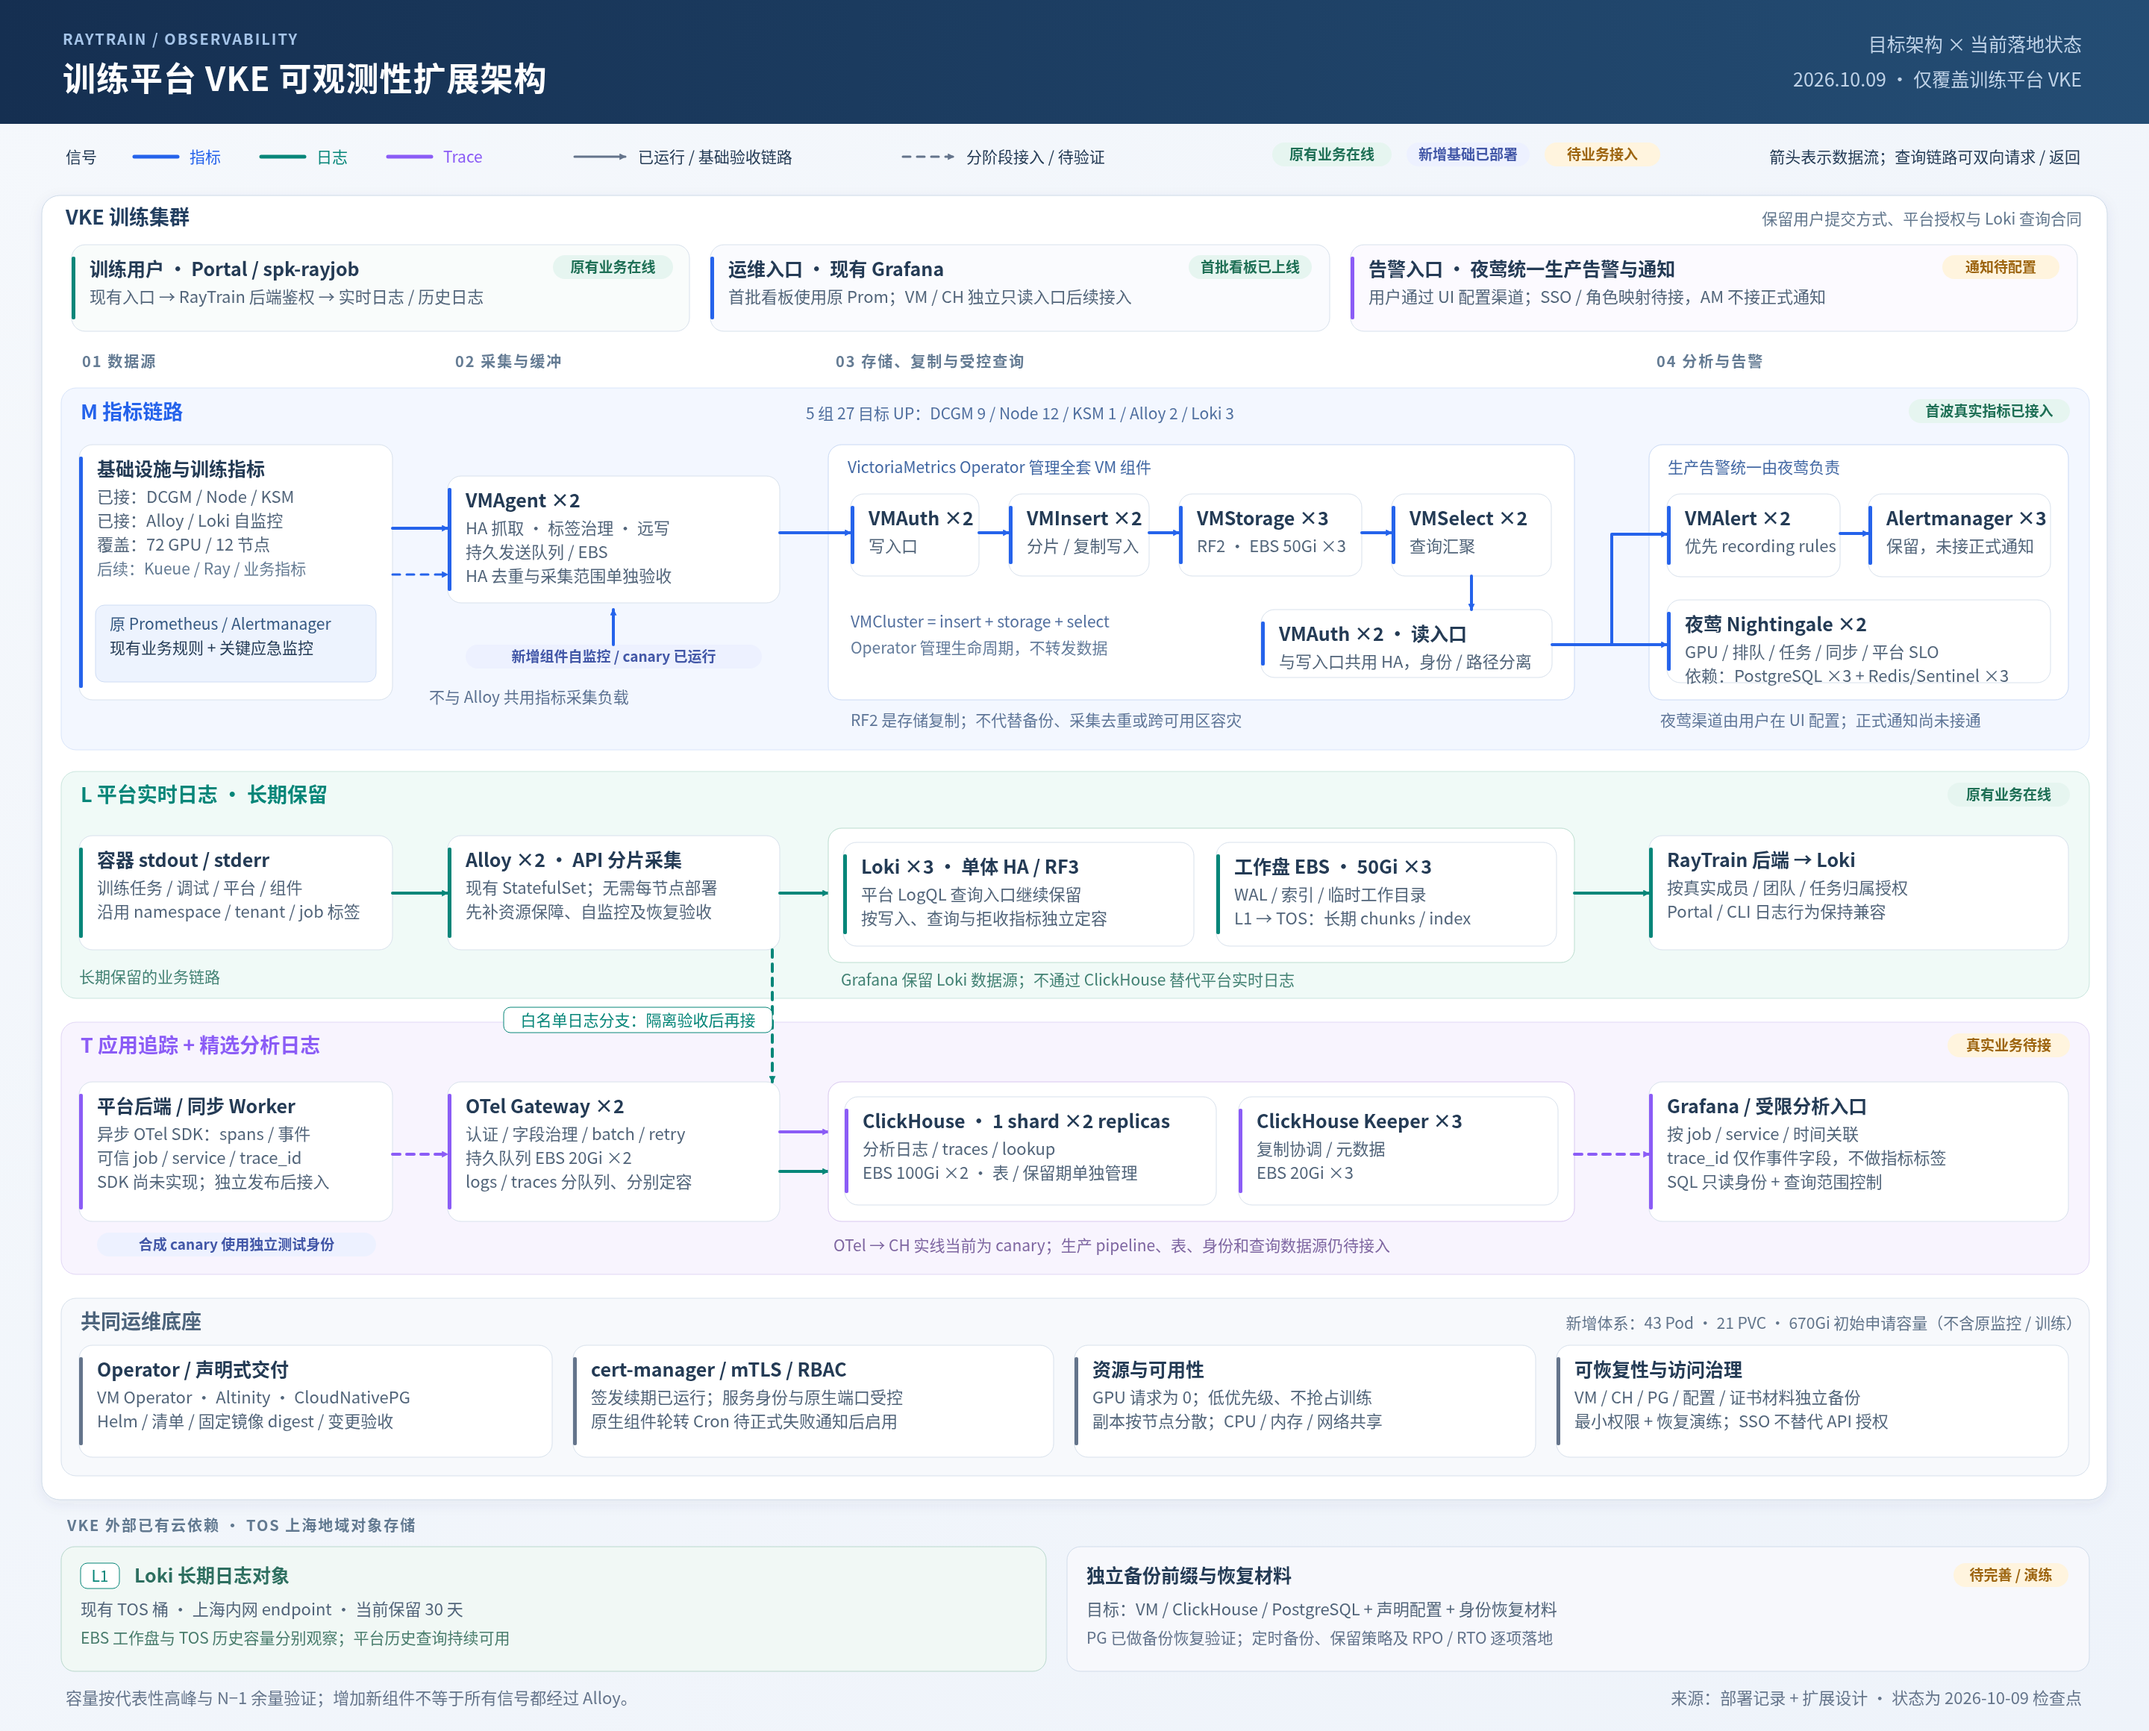
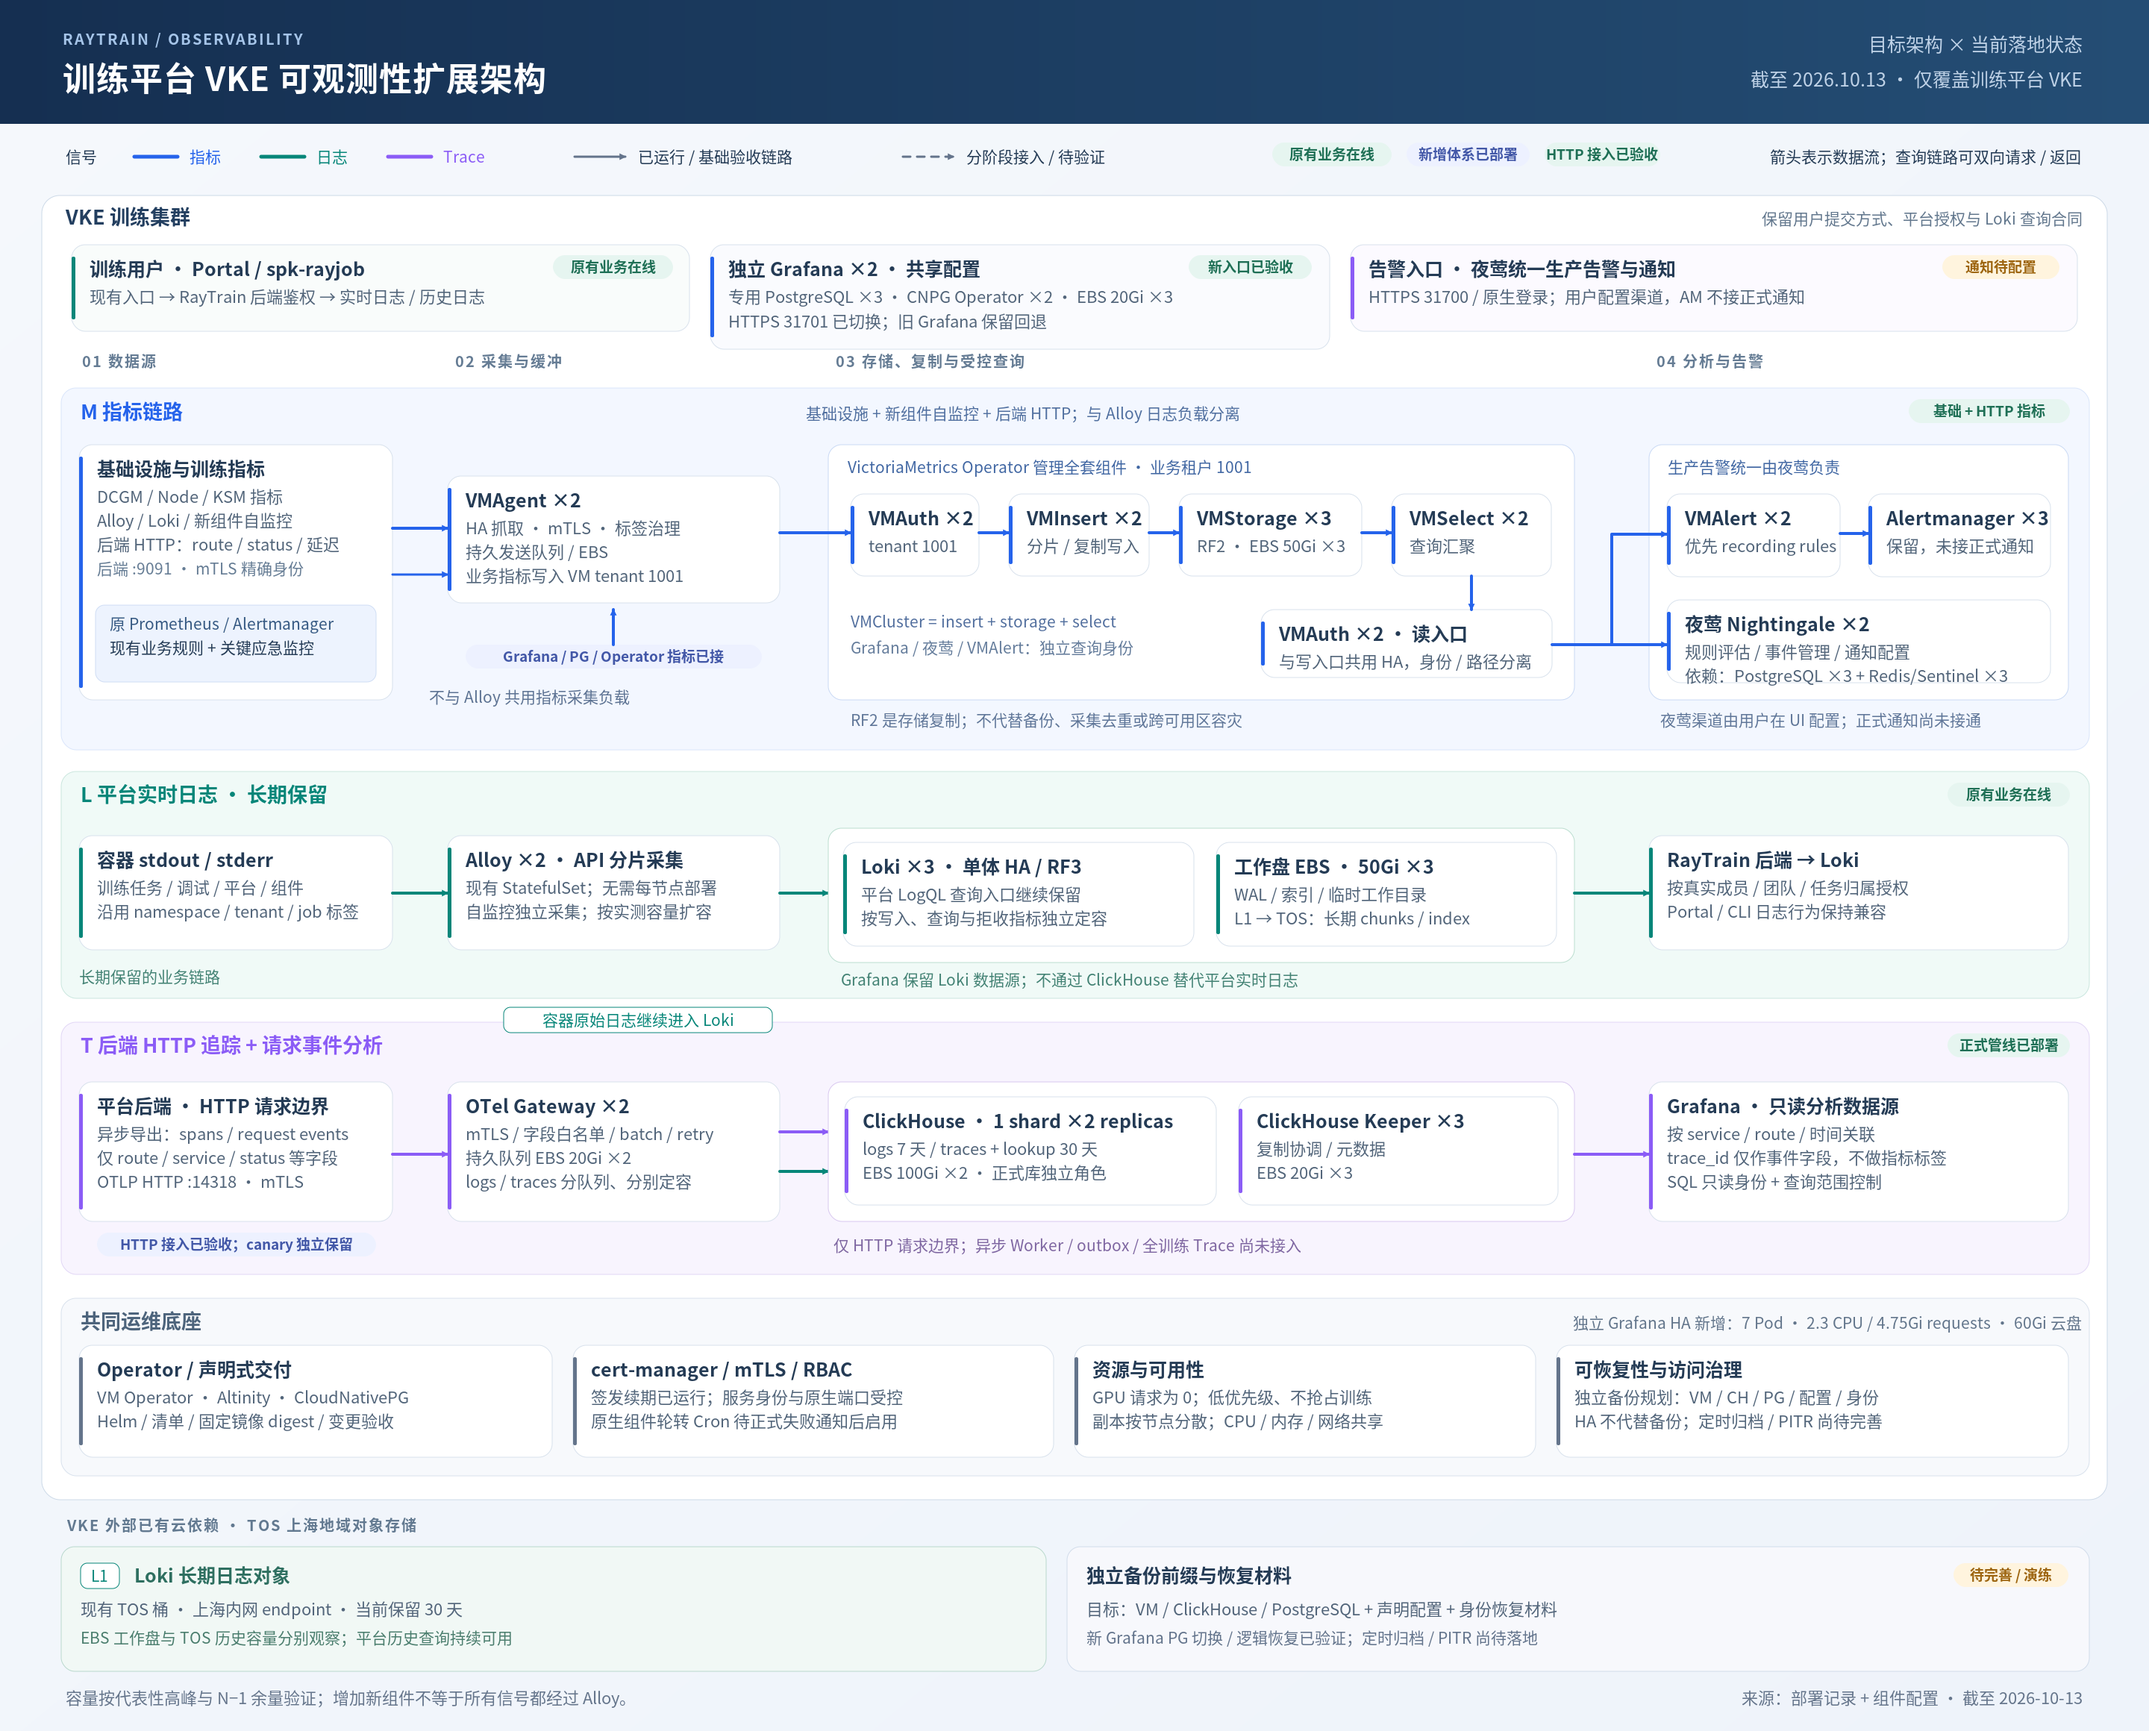
docs: refresh deployed observability architecture [skip ci]

diff --git a/docs/architecture/raytrain-observability-vke-20261009.html b/docs/architecture/raytrain-observability-vke-20261009.html
@@ -3,7 +3,7 @@
 <head>
 <meta charset="utf-8">
 <meta name="viewport" content="width=device-width,initial-scale=1">
-<title>RayTrain · VKE 可观测性架构</title>
+<title>RayTrain · VKE 可观测性架构 · 截至 2026-10-13</title>
 <style>
 :root{color-scheme:light;--ink:#243b55;--muted:#60748b;--line:#d9e3ee;--blue:#2563eb}
 *{box-sizing:border-box}
@@ -36,7 +36,7 @@ footer a{color:#345d8f}
 </head>
 <body>
 <header>
-  <div><h1>RayTrain · VKE 可观测性扩展架构</h1><p>首波真实指标与看板已接入；保留平台日志，逐步扩展分析与追踪 · 2026-10-09</p></div>
+  <div><h1>RayTrain · VKE 可观测性扩展架构</h1><p>独立 Grafana HA、正式 OTel / ClickHouse 管线已部署；HTTP 业务接入与新 Grafana 入口均已验收 · 截至 2026-10-13</p></div>
   <a href="../../ops/observability/next/DEPLOYMENT_RUNBOOK.md">部署与验收记录 ↗</a>
 </header>
 <nav class="toolbar" aria-label="架构图查看工具">
@@ -50,15 +50,15 @@ footer a{color:#345d8f}
 </nav>
 <main>
   <div class="viewer" id="viewer" tabindex="0" aria-label="可滚动缩放的架构图">
-    <div class="canvas" id="canvas"><img src="raytrain-observability-vke-20261009.svg" width="2880" height="2320" alt="RayTrain 可观测性架构：DCGM、Node、KSM、Alloy、Loki 五组二十七个指标目标已由 VMAgent 接入 VMCluster；现有 Grafana 首批看板使用原 Prometheus。绿色日志保留 Alloy 到 Loki 和 TOS。Kueue 与 Ray 更细业务指标、应用 SDK、正式 ClickHouse 管线和通知仍待接入。"></div>
+    <div class="canvas" id="canvas"><img src="raytrain-observability-vke-20261009.svg" width="2880" height="2320" alt="RayTrain VKE 可观测性：独立 Grafana 两副本共享专用 PostgreSQL 三副本，CNPG Operator 两副本管理。HTTP 指标通过 mTLS 9091、VMAgent 写入 VMCluster 1001；HTTP spans 和请求事件经 OTLP 14318、OTel 持久队列进入 ClickHouse 一分片两副本和三 Keeper。原 Alloy、Loki 日志链与旧 Grafana 回退保留。HTTP 业务接入与 Grafana 临时 NodePort 已验收；异步训练链路和夜莺正式通知尚未接入。"></div>
   </div>
   <section class="notes" aria-label="讲解要点">
-    <article class="note"><h2><i class="legend"></i>指标：首波真实目标已接入</h2><p>DCGM / Node / KSM / Alloy / Loki 共 5 组 27 目标 UP，读回 72 GPU、12 节点。现有 Grafana 首批看板用原 Prom 数据源，22 项查询通过；原 Prom 89/89 目标正常。Kueue / Ray 深层指标和应用指标后续完善。</p></article>
-    <article class="note"><h2><i class="legend"></i>日志：原有用户体验持续保留</h2><p>Alloy 与 Loki 是长期业务链路。先补自监控、资源保障、端到端 canary 和恢复验收，再依据瓶颈扩容；不因引入新组件默认扩成 DaemonSet。</p></article>
-    <article class="note"><h2><i class="legend"></i>追踪、分析与统一告警：继续推进</h2><p>后端 / Worker SDK 尚未实现，正式 OTel / ClickHouse 管线、外部夜莺 UI 与 SSO 仍待接入。生产告警统一由夜莺处理，用户后续在 UI 配置渠道；VMAlert 优先 recording，AM 不接正式通知。</p></article>
+    <article class="note"><h2><i class="legend"></i>指标：VMCluster + 独立 Grafana HA</h2><p>VMAgent 双副本抓取基础设施、组件及后端 HTTP 指标，业务数据写入 VMCluster tenant 1001。独立 Grafana 两副本共享 PostgreSQL 三副本，由专用 CNPG Operator 双副本管理；已接通 VM、原 Prometheus、Loki、ClickHouse 四个数据源。旧 Grafana 与自建看板保留，临时 HTTPS 31701 已切换到新 Grafana 并完成验收；旧账号与自建配置未自动迁移。</p></article>
+    <article class="note"><h2><i class="legend"></i>日志：原有用户体验持续保留</h2><p>Alloy 两副本通过 Kubernetes API 分片采集，Loki 三副本与上海 TOS 保存平台日志。新增指标由 VMAgent 采集；HTTP 请求事件由后端直接发往 OTel。扩展体系不会把全部新信号压到 Alloy，也不会用 ClickHouse 替换训练日志查询。</p></article>
+    <article class="note"><h2><i class="legend"></i>HTTP 追踪、分析与统一告警</h2><p>后端通过 mTLS OTLP HTTP 14318 导出请求 spans / events；OTel 双副本使用持久队列，ClickHouse 为 1 shard × 2 replicas、3 Keeper，logs 保留 7 天、traces / lookup 30 天。HTTP 接入已验收；仅覆盖 HTTP 边界，异步 Worker / 全任务追踪尚未接入。夜莺 HTTPS 31700 可配置告警，通知渠道由用户在 UI 配置。</p></article>
   </section>
 </main>
-<footer>以 <a href="../../ops/observability/next/DEPLOYMENT_RUNBOOK.md">部署记录</a> 与 <a href="../superpowers/specs/2026-10-09-observability-expansion-design.md">扩展设计</a> 为状态依据；本图表示目标职责与分阶段落地，不代表所有业务已接入。</footer>
+<footer>以 <a href="../../ops/observability/next/DEPLOYMENT_RUNBOOK.md">部署记录</a> 与 <a href="../superpowers/specs/2026-10-09-observability-expansion-design.md">扩展设计</a> 为状态依据；本图截至 2026-10-13。HA 不代替备份，定时归档 / PITR 和完整训练链路追踪仍需独立实施。</footer>
 <script>
 (()=>{"use strict";const viewer=document.getElementById("viewer"),canvas=document.getElementById("canvas"),out=document.getElementById("scale");let zoom=1,auto=true;function set(value){zoom=Math.max(.2,Math.min(1.75,value));canvas.style.width=(2880*zoom)+"px";out.textContent=Math.round(zoom*100)+"%";}function fit(){auto=true;set((viewer.clientWidth-48)/2880);}document.getElementById("fit").addEventListener("click",fit);document.getElementById("actual").addEventListener("click",()=>{auto=false;set(1);});document.getElementById("minus").addEventListener("click",()=>{auto=false;set(zoom-.1);});document.getElementById("plus").addEventListener("click",()=>{auto=false;set(zoom+.1);});document.getElementById("print").addEventListener("click",()=>window.print());window.addEventListener("resize",()=>{if(auto)fit();});fit();})();
 </script>
